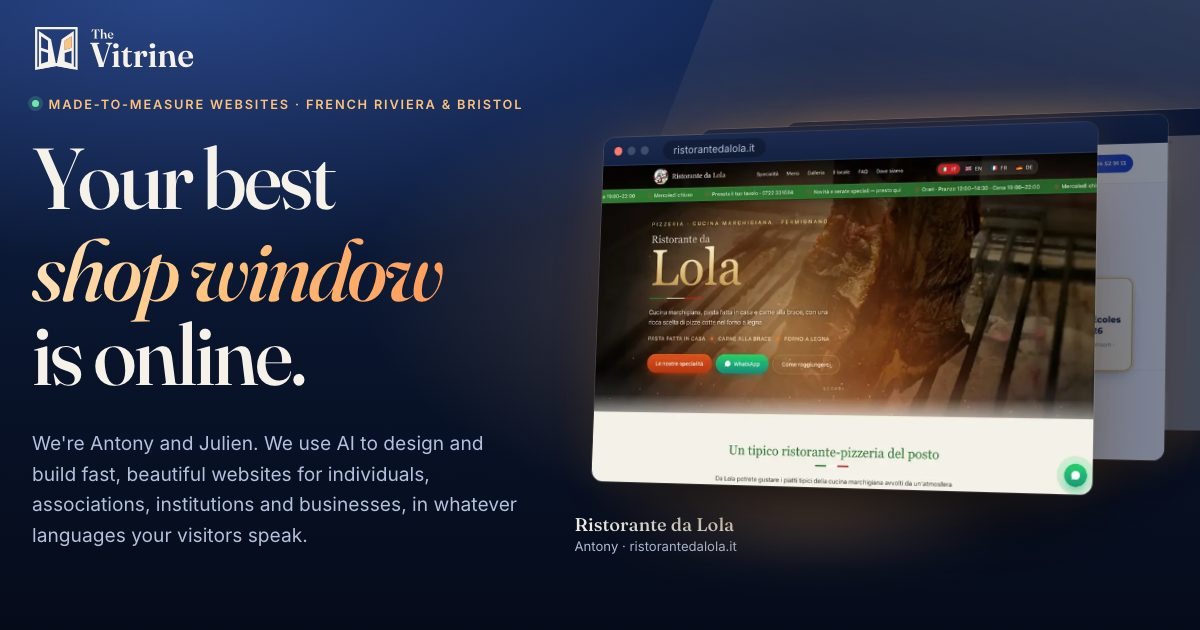
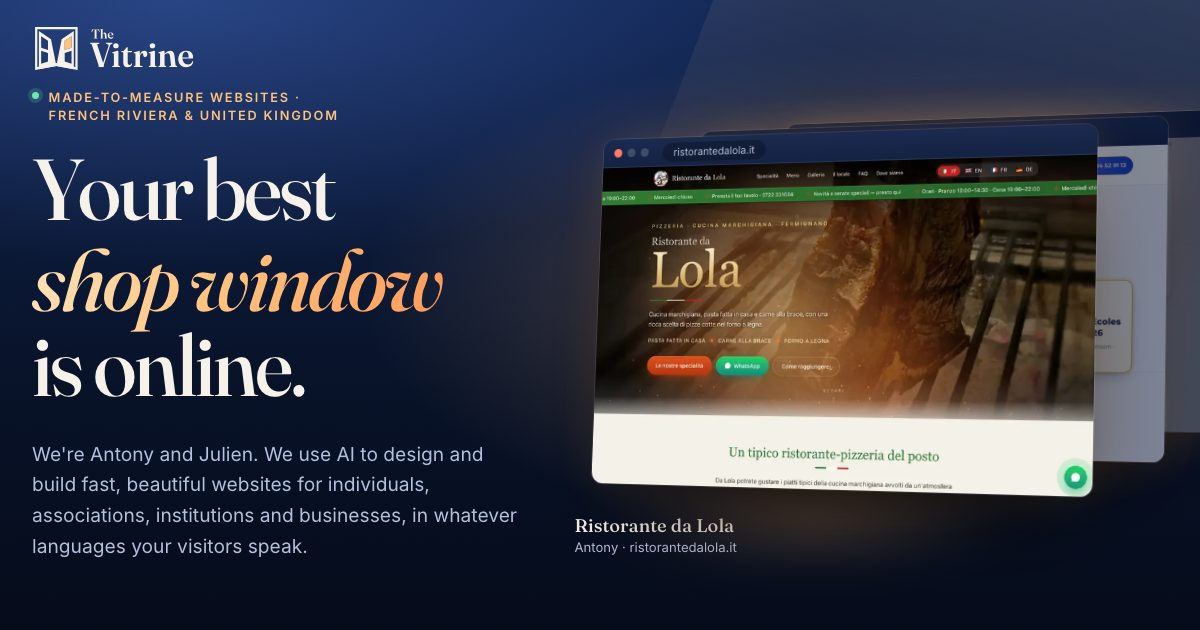
Name the United Kingdom in the English title and hero label
- Title: "Website design on the French Riviera & in the United Kingdom |
  The Vitrine".
- Hero label: "Made-to-measure websites · French Riviera & United
  Kingdom", with non-breaking spaces so the place name never splits.
- Structured data: the areas served are now the Var, the Alpes-Maritimes,
  the United Kingdom and Italy (instead of Bristol).
- Share images re-rendered.

diff --git a/src/i18n.ts b/src/i18n.ts
@@ -18,7 +18,7 @@ export const casePath = (lang: Lang, slug: string) => (lang === "fr" ? `/realisa
 
 export const strings = {
   en: {
-    title: "Website design on the French Riviera & in Bristol | The Vitrine",
+    title: "Website design on the French Riviera & in the United Kingdom | The Vitrine",
     description: "Fast, polished websites for individuals, associations, institutions and businesses, on the French Riviera and beyond, in any language. Browse our {n} live sites.",
     heading: "Websites and apps we've built with AI.",
     lede: "A shop window of our work. Each one is live: click through and try it.",
@@ -40,7 +40,7 @@ export const strings = {
     notFoundTitle: "This window is empty",
     notFoundText: "The page you were looking for isn't here, or it has moved.",
     notFoundCta: "Back to the sites",
-    heroEyebrow: "Made-to-measure websites · French Riviera & Bristol",
+    heroEyebrow: "Made-to-measure websites · French\u00a0Riviera\u00a0&\u00a0United\u00a0Kingdom",
     heroLine1: "Your best",
     heroAccent: "shop window",
     heroLine2: "is online.",
